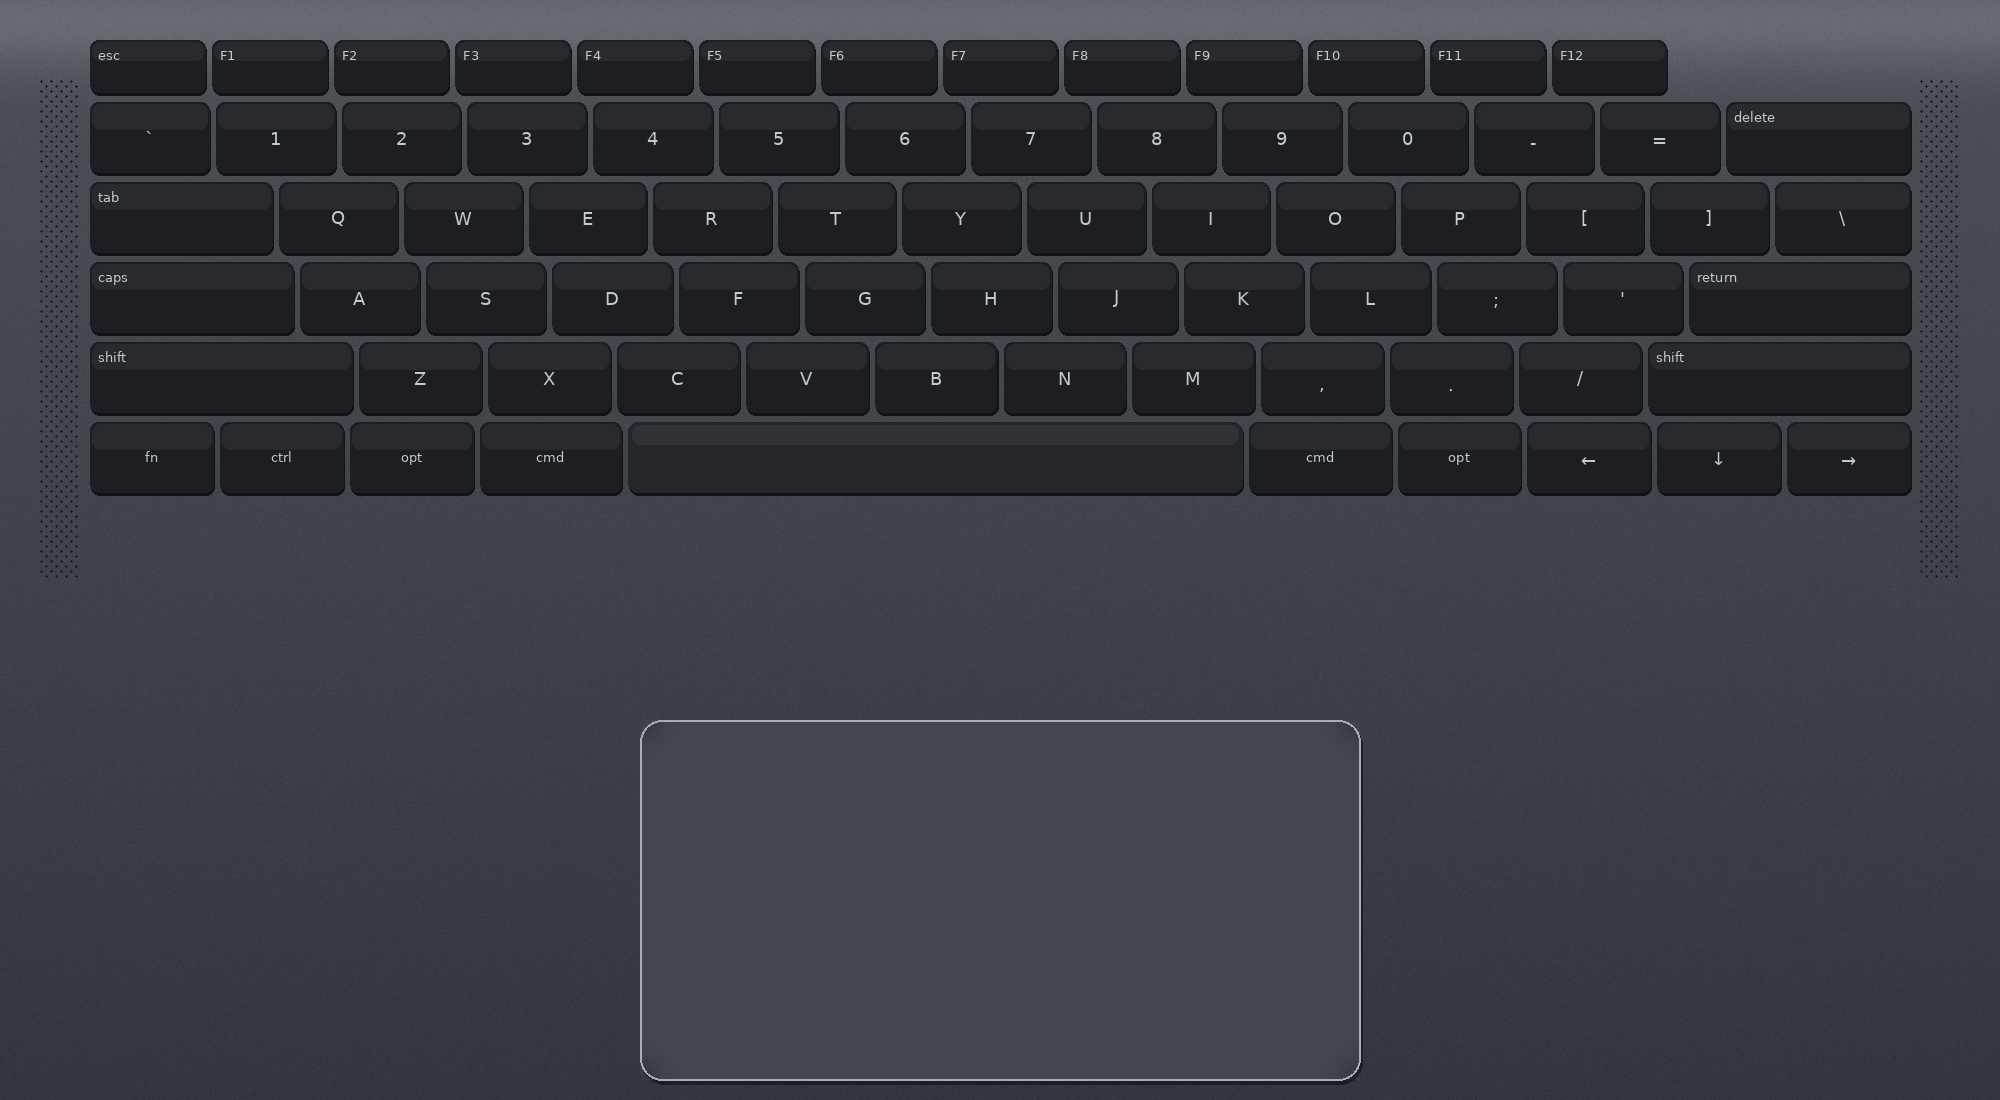
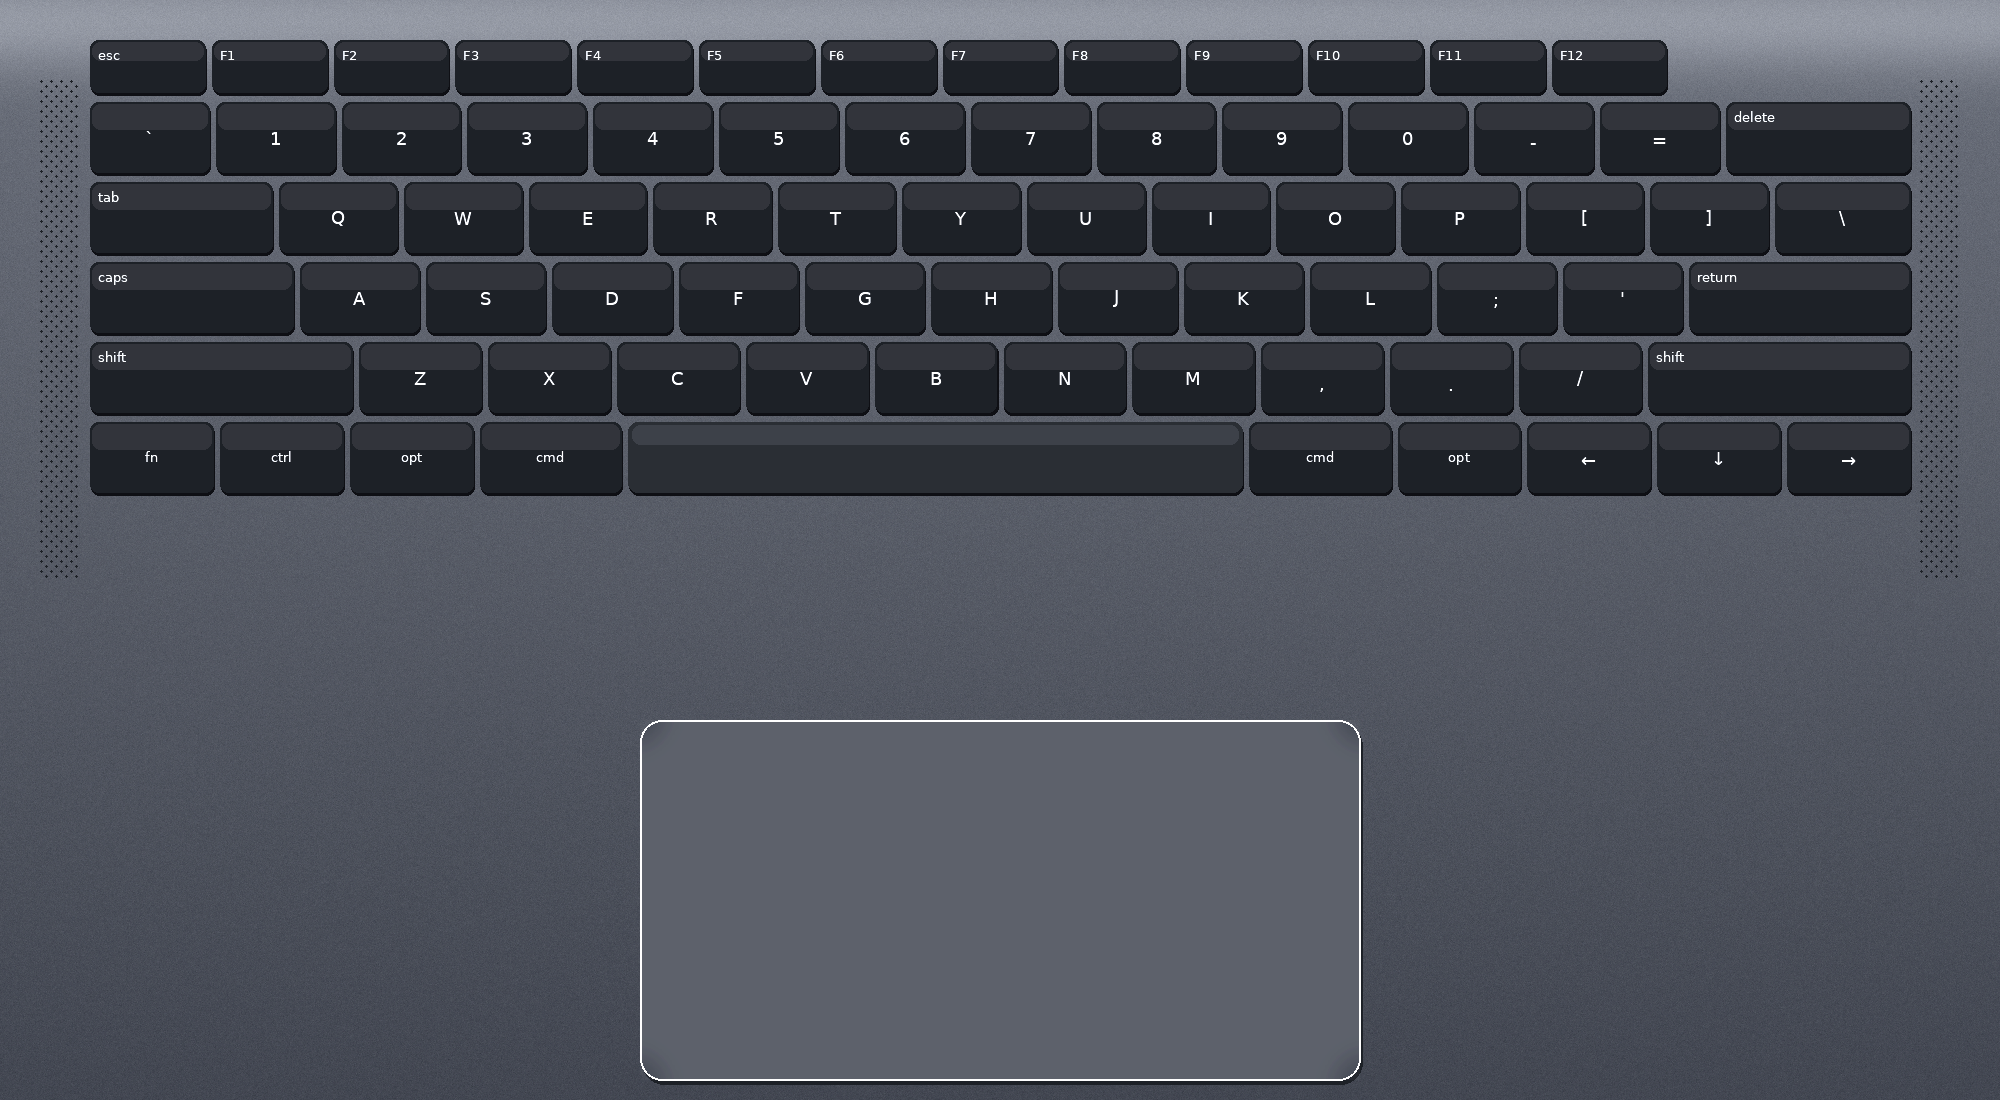
Pull the 3D camera back and keep the keyboard readable.
The first WebGL frame was sitting in the deck. Frame the whole machine
and unlit the key texture so the chassis still turns in perspective.

diff --git a/website/src/components/MacBookCanvas.tsx b/website/src/components/MacBookCanvas.tsx
@@ -18,10 +18,10 @@ const SCREEN_PATHS = scenes.map((s) => site.shots[s.shot]);
 const COPY_END = 0.16;
 
 const aluminum = {
-  metalness: 0.93,
-  roughness: 0.3,
-  clearcoat: 0.48,
-  clearcoatRoughness: 0.32,
+  metalness: 0.9,
+  roughness: 0.38,
+  clearcoat: 0.35,
+  clearcoatRoughness: 0.4,
 } as const;
 
 type Pose = {
@@ -35,10 +35,10 @@ function poseAt(progress: number): Pose {
   const t = THREE.MathUtils.clamp(progress / COPY_END, 0, 1);
   const e = t * t * (3 - 2 * t);
   return {
-    yaw: THREE.MathUtils.lerp(-0.62, -0.28, e),
-    pitch: THREE.MathUtils.lerp(0.32, 0.14, e),
-    roll: THREE.MathUtils.lerp(-0.04, -0.01, e),
-    lid: THREE.MathUtils.lerp(-0.26, -0.12, e),
+    yaw: THREE.MathUtils.lerp(-0.5, -0.24, e),
+    pitch: THREE.MathUtils.lerp(0.14, 0.07, e),
+    roll: THREE.MathUtils.lerp(-0.03, 0, e),
+    lid: THREE.MathUtils.lerp(-0.18, -0.1, e),
   };
 }
 
@@ -80,14 +80,9 @@ function Deck() {
   }, [map]);
 
   return (
-    <mesh rotation-x={-Math.PI / 2} position={[0, 0.372, 0.12]} renderOrder={1}>
+    <mesh rotation-x={-Math.PI / 2} position={[0, 0.385, 0.12]} renderOrder={1}>
       <planeGeometry args={[13.55, 8.55]} />
-      <meshPhysicalMaterial
-        map={map}
-        roughness={0.52}
-        metalness={0.18}
-        clearcoat={0.12}
-      />
+      <meshBasicMaterial map={map} toneMapped={false} />
     </mesh>
   );
 }
@@ -117,8 +112,9 @@ function LaptopBody({
   return (
     <group
       ref={rig}
-      position={[0, 0.42, 0]}
+      position={[0, 0.2, 0]}
       rotation={[rest.pitch, rest.yaw, rest.roll]}
+      scale={0.92}
     >
       <RoundedBox args={[14.42, 0.36, 9.96]} radius={0.09} smoothness={6} position={[0, 0.18, 0]}>
         <meshPhysicalMaterial color="#6e727a" {...aluminum} />
@@ -168,27 +164,27 @@ function LaptopBody({
 function Lights() {
   return (
     <>
-      <hemisphereLight args={["#c5d2e6", "#0a0c10", 0.42]} />
+      <hemisphereLight args={["#c5d2e6", "#0a0c10", 0.55]} />
       <spotLight
-        position={[7.5, 10, 7]}
-        angle={0.5}
+        position={[6, 11, 8]}
+        angle={0.55}
         penumbra={1}
-        intensity={2.4}
-        color="#f4f6fa"
+        intensity={1.35}
+        color="#eef2f7"
       />
       <spotLight
-        position={[-7, 4.5, 5]}
-        angle={0.7}
+        position={[-6.5, 5, 6]}
+        angle={0.75}
         penumbra={1}
-        intensity={0.85}
+        intensity={0.45}
         color="#8eadd8"
       />
-      <directionalLight position={[2, 3, -8]} intensity={0.7} color="#d5dde8" />
+      <directionalLight position={[2, 4, -7]} intensity={0.35} color="#d5dde8" />
       <Environment resolution={256}>
-        <Lightformer intensity={2.6} position={[0, 5, -2]} scale={[12, 2.4, 1]} />
-        <Lightformer intensity={1.4} position={[6, 2, 4]} scale={[4, 6, 1]} />
-        <Lightformer intensity={1.1} position={[-6, 1.5, 2]} scale={[3, 5, 1]} color="#9bb6dc" />
-        <Lightformer intensity={0.7} position={[0, -2, 4]} scale={[10, 1, 1]} color="#1b2230" />
+        <Lightformer intensity={1.2} position={[0, 5, -2]} scale={[12, 2.4, 1]} />
+        <Lightformer intensity={0.7} position={[6, 2, 4]} scale={[4, 6, 1]} />
+        <Lightformer intensity={0.55} position={[-6, 1.5, 2]} scale={[3, 5, 1]} color="#9bb6dc" />
+        <Lightformer intensity={0.35} position={[0, -2, 4]} scale={[10, 1, 1]} color="#1b2230" />
       </Environment>
     </>
   );
@@ -208,8 +204,14 @@ export function MacBookCanvas({
       className="macbook-3d-canvas"
       gl={{ antialias: true, alpha: true, powerPreference: "high-performance" }}
       dpr={[1, 1.75]}
-      camera={{ fov: 28, position: [0, 2.55, 17.6], near: 0.1, far: 80 }}
+      camera={{ fov: 32, position: [0, 4.6, 26], near: 0.1, far: 80 }}
       frameloop={freeze ? "demand" : "always"}
+      onCreated={({ camera, gl }) => {
+        camera.lookAt(0, 2.15, 0);
+        gl.toneMapping = THREE.ACESFilmicToneMapping;
+        gl.toneMappingExposure = 0.88;
+        gl.setClearColor(0x000000, 0);
+      }}
     >
       <Lights />
       <LaptopBody active={active} progressRef={progressRef} freeze={freeze} />

diff --git a/website/src/design/tokens.css b/website/src/design/tokens.css
@@ -221,7 +221,7 @@ body {
 .macbook-3d-fallback {
   position: relative;
   width: 100%;
-  aspect-ratio: 16 / 11;
+  aspect-ratio: 5 / 4;
   min-height: 16rem;
 }
 
